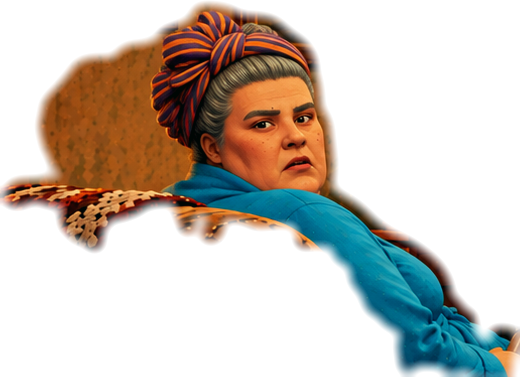
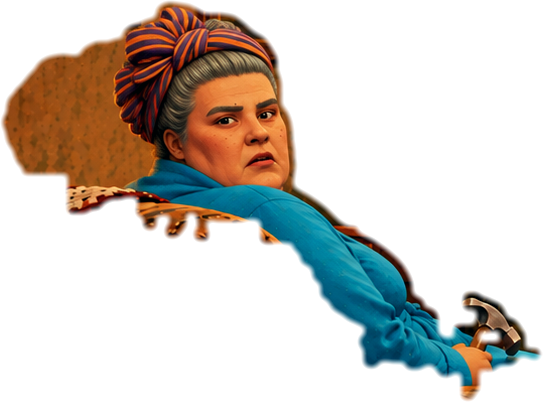
Anfisa enger freigestellt, Decke bleibt liegen

diff --git a/quest-ostern.html b/quest-ostern.html
@@ -443,8 +443,8 @@
       strafeWenn: 'bild_ab', strafeSetzt: 'anfisa_sauer',
       strafeAntwort: '[STRAFE — sie sieht die leere Wand und rührt sich nicht. Text folgt]', phasen: [
         { bild: '' },
-        { bild: 'bilder/wz-frau-wach.png',    x: 200, y: 93, w: 520, h: 377, text: '[TEXT 1 — aufgeschreckt, folgt noch]' },
-        { bild: 'bilder/wz-frau-spricht.png', x: 200, y: 93, w: 520, h: 377, text: '[TEXT 2 — was sie sagt, folgt noch]' }
+        { bild: 'bilder/wz-frau-wach.png',    x: 237, y: 97, w: 543, h: 402, text: '[TEXT 1 — aufgeschreckt, folgt noch]' },
+        { bild: 'bilder/wz-frau-spricht.png', x: 238, y: 98, w: 542, h: 402, text: '[TEXT 2 — was sie sagt, folgt noch]' }
       ] },
     // --- Küche ---
     // --- Küche. Grundbild ist dunkel; erst die Sicherung macht Licht.

diff --git a/UEBERGABE-OSTERN.md b/UEBERGABE-OSTERN.md
@@ -182,7 +182,7 @@ Vier Ausschnitte, alle mit `nah: ''` — **Nahaufnahmen fehlen noch**:
   zurückhängen.. Der Rahmen reicht bis y=190, ein kürzerer Ausschnitt lässt die Rahmenunterkante stehen.
 - `w_tv` Fernseher (1408,148 217×200) — an und aus. Der Flicken stammt aus einem eigenen Bild, das pixelgenau zum Grundbild passt; darum stehen die Porzellanfiguren exakt gleich.
 - `w_sessel_leer` Overlay ohne Anfisa (150,80 850×770), schaltet auf `anfisa_weg`
-- `w_frau` Anfisa im Sessel (Flicken 200,93 520×377, Klickfläche 240,192 430×233),
+- `w_frau` Anfisa im Sessel (Flicken 237,97 543×402, Klickfläche 240,192 430×233),
   typ `phasen`, nimmt `kippen` entgegen und setzt damit `anfisa_weg`:
   0 schlafend (Grundbild) · 1 aufgeschreckt · 2 spricht · danach wieder 0.
   **Beide Texte sind Platzhalter.**
@@ -347,7 +347,14 @@ macht daraus ein PNG mit Alphakanal:
 1. Quellbild farblich ans Grundbild angleichen, zweistufig
 2. Maske auf die veränderte Form beschränken — entweder automatisch aus dem
    Differenzbild oder per `form=(x0,y0,x1,y1)` fest vorgegeben
-2b. `aussparung=[(x0,y0,x1,y1), ...]` nimmt Bereiche wieder heraus. Nötig für
+2b. Der Maskenrand muss eng am Objekt liegen. Jeder Pixel Hintergrund, den der
+   Flicken mitnimmt, wird falsch, sobald sich dieser Hintergrund ändern kann —
+   bei Anfisa hat ein zu grosszügiger Rand Teile des Gemäldes mitgeschleppt, die
+   dann auf der leeren Wand standen. Umgekehrt muss die volle Deckkraft weit
+   genug reichen, um das alte Objekt zu überdecken, sonst bleibt dessen Umriss
+   als Geist stehen. Richtig ist: niedrige Schwelle, nur der grösste
+   zusammenhängende Bereich, wenig wachsen, wenig weich.
+2c. `aussparung=[(x0,y0,x1,y1), ...]` nimmt Bereiche wieder heraus. Nötig für
    Dinge, die halb im Ausschnitt stehen und im Quellbild versetzt sind — die
    erscheinen sonst doppelt. Im Wohnzimmer betrifft das die Tasse auf dem
    Couchtisch, die in den Ausschnitt des Bücherregal-Schranks ragt.
